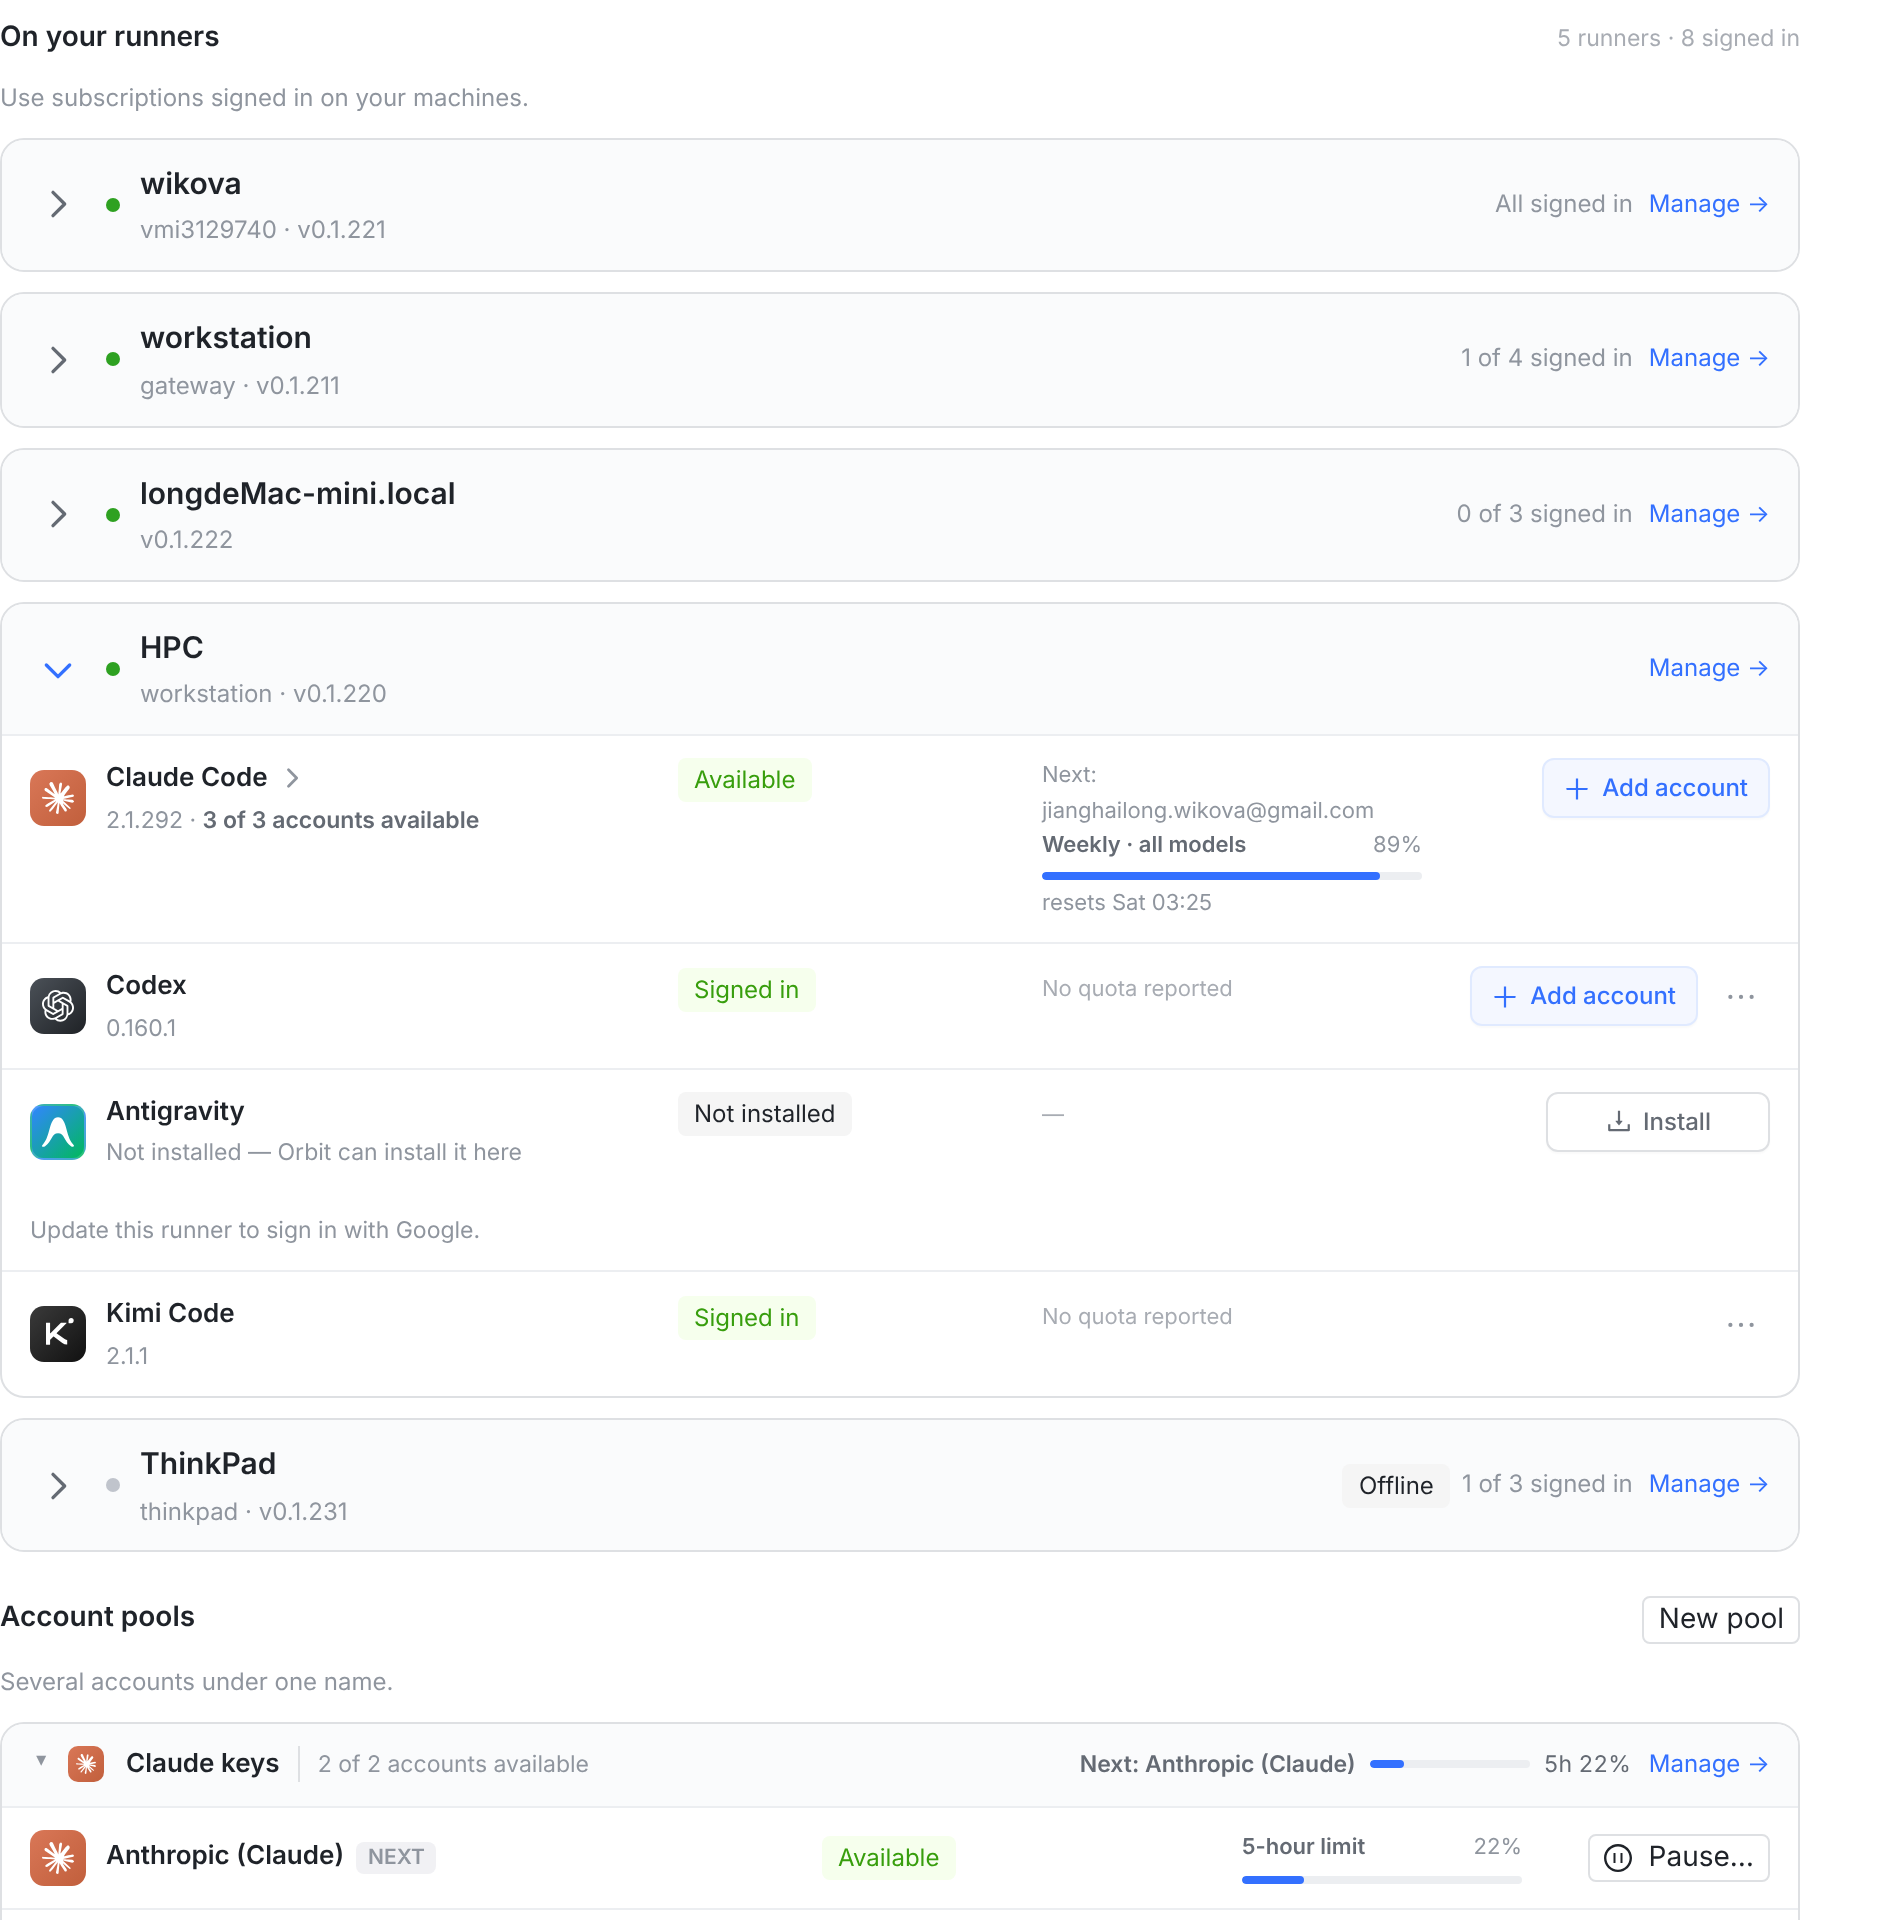
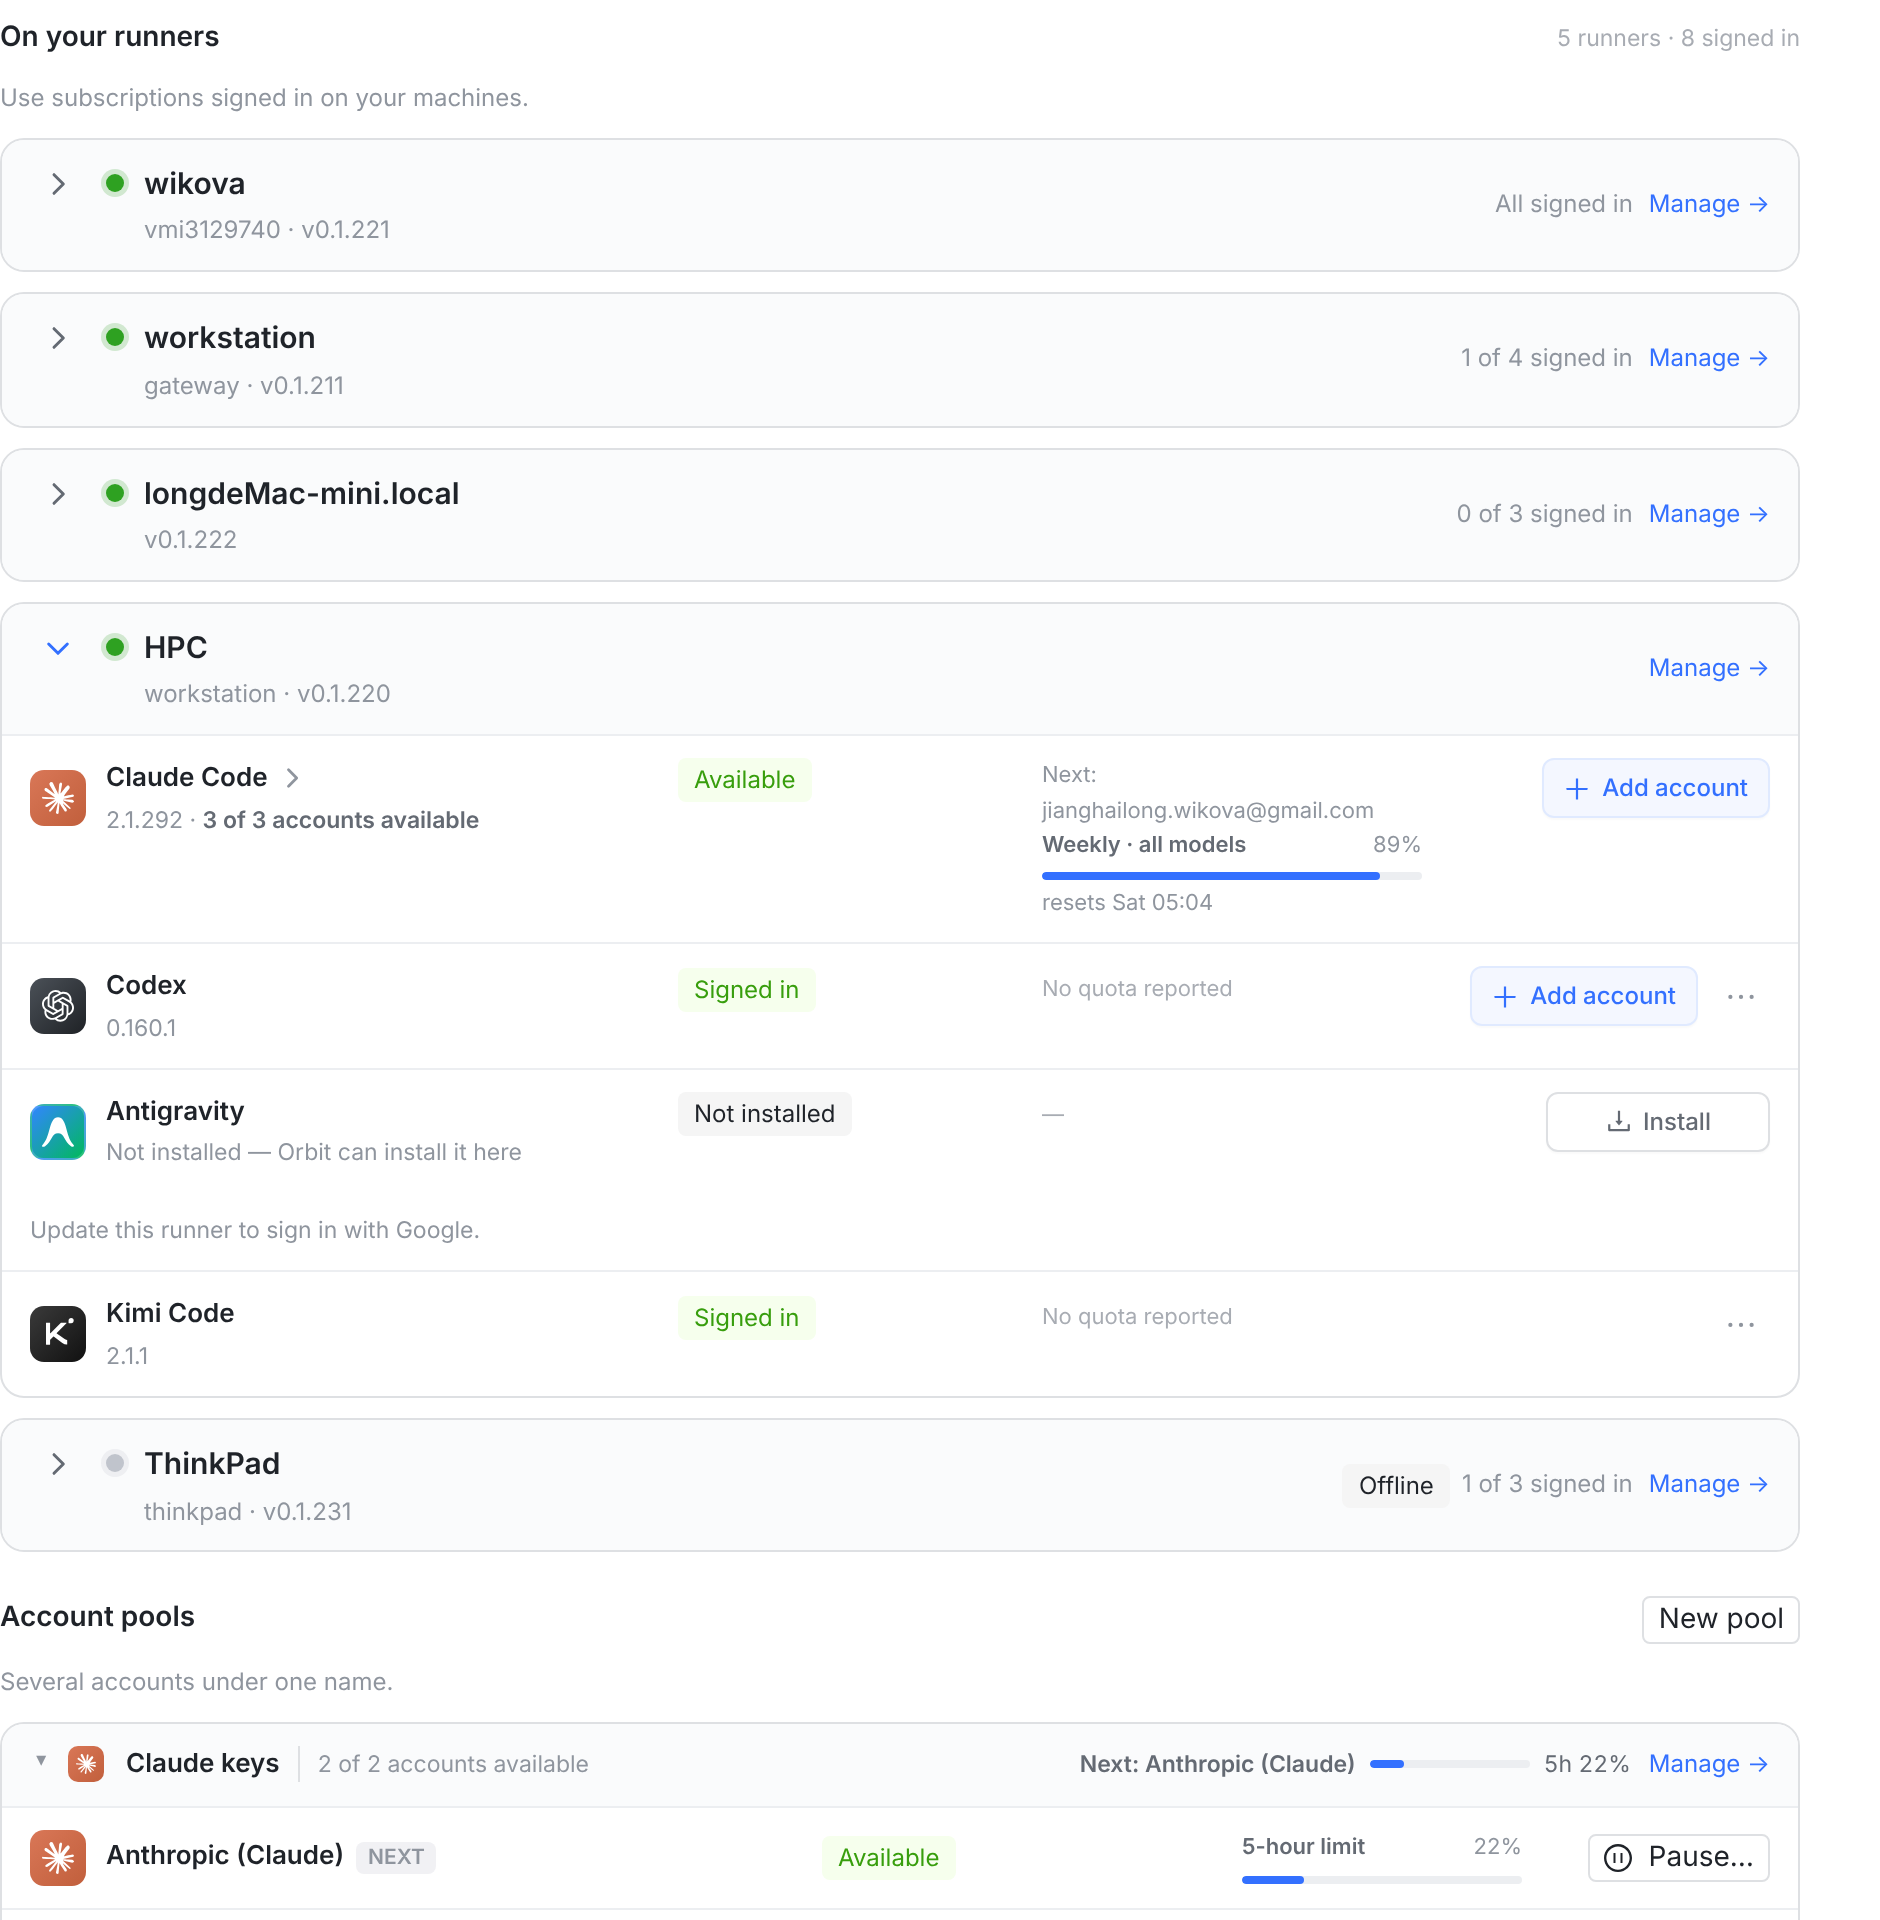
fix(web): the runner card's leading marks ride the name's line
The chevron and the dot led a two-line identity — a name over a host and
version — while being centred on the block: 197.4px, exactly the gap between
the two lines, so neither mark belonged to a line of type. They start at the
block's first line now (186.5 / 186.2 / 186.7), the way the phone layout has
always aligned them, and the chevron and dot were re-sized to sit as one
pair: 16px at stroke 2.2 and a 9px dot with a same-colour ring, green when
online and grey when not. The chevron keeps its column and its colours.

Board: docs/mocks/runner-card-fold-chevron (06-leading-marks-alignment).

diff --git a/src/web/src/index.css b/src/web/src/index.css
@@ -15057,13 +15057,19 @@ button.chat-jump-start:hover {
 }
 .re-dot {
   flex: none;
-  width: 7px;
-  height: 7px;
+  /* Onto the name's line rather than the middle of the two-line block it heads (see
+     .re-runner-card .re-toggle), and 9px with a ring of its own so it holds its own beside the
+     chevron instead of reading as a speck of dust. */
+  width: 9px;
+  height: 9px;
+  margin-top: 7px;
   border-radius: 50%;
   background: var(--dot-idle);
+  box-shadow: 0 0 0 2.5px color-mix(in srgb, var(--dot-idle) 20%, transparent);
 }
 .re-dot.on {
   background: var(--success-solid);
+  box-shadow: 0 0 0 2.5px color-mix(in srgb, var(--success-solid) 20%, transparent);
 }
 .re-runner {
   font-size: 13px;
@@ -15094,6 +15100,9 @@ button.chat-jump-start:hover {
 .re-runner-card .re-toggle {
   flex: 1;
   align-self: stretch;
+  /* The chevron and the dot lead the identity, which stacks a name over a host and version: a
+     mark centred on that block lands in the gap between the two lines, belonging to neither. */
+  align-items: flex-start;
   gap: 10px;
   min-height: 64px;
   padding: 10px 14px;
@@ -15183,9 +15192,6 @@ button.chat-jump-start:hover {
     min-height: 54px;
     padding: 10px 0 0;
     border-radius: 11px;
-  }
-  .re-runner-card .re-toggle > .re-dot {
-    margin-top: 8px;
   }
   /* Under 600px the chevron stays where it has always been: the top-right of the row, beside
      the name. Only the wide card leads with it. */

diff --git a/src/web/src/components/RunnerEngines.tsx b/src/web/src/components/RunnerEngines.tsx
@@ -1192,11 +1192,11 @@ function RunnerEngineCard({
           {/* Leads the row, in the column the engine rows below put their icon in: one place
               holds it folded or open, and no row's summary can move it. */}
           <span className={`re-chev${collapsed ? '' : ' open'}`} aria-hidden="true">
-            <svg width="20" height="20" viewBox="0 0 24 24" fill="none">
+            <svg width="16" height="16" viewBox="0 0 24 24" fill="none">
               <path
                 d="m9 5 7 7-7 7"
                 stroke="currentColor"
-                strokeWidth="2"
+                strokeWidth="2.2"
                 strokeLinecap="round"
                 strokeLinejoin="round"
               />

diff --git a/docs/mocks/runner-card-fold-chevron/README.md b/docs/mocks/runner-card-fold-chevron/README.md
@@ -34,12 +34,29 @@ Providers → “On your runners”。真机截图（本机 vite + 假 API，数
 
 （展开行量到的 427 是转 90° 之后的包围盒，不是位置差。图上下面那张账号池卡片就是“倒三角领行”的参照。）
 
-**倒三角本身没变**：还是原来那个 20px 线条箭头、原来的颜色（`--text-2`，hover/展开品牌蓝），
-只是从行尾挪到了行首。头部和它下面第一行共用一列 —— 倒三角在引擎图标的上面，状态圆点在引擎名字的上面：
+**两个标记爬上名字那一行**（2026-10-08 追加）：身份区是「名字 + 主机/版本」两行，而标记原来
+居中于整块（竖直中心 197.4px），正好落在两行之间的缝里 —— 看起来跟哪一行都不搭。现在它们跟名字
+同一根线（中心 186.5 / 186.2 / 186.7），并按尺寸一栏调过重量：
+
+![alignment](06-leading-marks-alignment.png)
+
+| | 名字行中心 | 圆点中心 | 倒三角中心 |
+|---|---|---|---|
+| 改前 | 186.5 | **197.4**（缝里） | **197.4**（缝里） |
+| 改后（C） | 186.5 | 186.2 | 186.7 |
+
+尺寸（对照 [05-leading-marks-plate](05-leading-marks-plate.png) 里那六版选的 C）：
+
+| | 改前 | 改后 |
+|---|---|---|
+| 倒三角 | 20px、描边 2 | **16px、描边 2.2**（同一列 28px，位置与图标列对齐不变） |
+| 圆点 | 7px、无光环 | **9px + 2.5px 同色 20% 光环**（在线绿、离线灰用各自颜色） |
+
+头部和它下面第一行仍共用一列 —— 倒三角在引擎图标的上面，状态圆点在引擎名字的上面：
 
 ![leading column](04-leading-column.png)
 
-三个理由：
+三个理由（倒三角为什么该领行）：
 
 1. **这个产品的行尾表示「去别处」**——`Manage →`、引擎行的 `›`。同一页另外两处折叠控件都不在行尾：
    账号池卡片的 `▸` 在整行最左（就是它），引擎行的 `›` 紧跟引擎名。
@@ -52,26 +69,32 @@ Providers → “On your runners”。真机截图（本机 vite + 假 API，数
 ![phone](03-proposal-phone.png)
 
 卡片高度、摘要位置（名字下面缩进 17px）、`Manage →` 那一行**和今天逐像素一样**
-（都是 101px 高，Manage 的纵坐标一模一样），倒三角仍在右上角 —— 字形也不动。做法是 ≤600px 时
+（都是 101px 高，Manage 的纵坐标一模一样），倒三角仍在右上角。做法是 ≤600px 时
 给它 `order: 2`，把它排回按钮末尾：一行 CSS。
+
+尺寸和「对齐名字行」这两条在手机上同样成立（手机本来就把标记对齐第一行）。
 
 ## 要改什么
 
-- `src/web/src/components/RunnerEngines.tsx`：倒三角那个 span 从按钮末尾挪到按钮开头（圆点前面）。
-  **一行移动，字形、尺寸、颜色都不动。**
-- `src/web/src/index.css`：≤600px 容器查询里 `.re-runner-card .re-chev { order: 2 }`
-  （手机不挪的关键），加一句注释。
+- `src/web/src/components/RunnerEngines.tsx`：倒三角那个 span 从按钮末尾挪到按钮开头（圆点前面），
+  并把 svg 从 `20px` / `strokeWidth 2` 改成 `16px` / `2.2`。
+- `src/web/src/index.css`：
+  - `.re-runner-card .re-toggle` 加 `align-items: flex-start`（标记对齐名字行）；
+  - `.re-dot` 7px → 9px、加 `margin-top: 7px` 和同色光环（`.re-dot.on` 用绿色）；
+  - ≤600px 容器查询里 `.re-runner-card .re-chev { order: 2 }`（手机不挪的关键），
+    并删掉那里多余的圆点 `margin-top` 规则。
 
-不改：摘要、点击区域（整行仍可点）、aria、倒三角的字形与配色、离线/警告摘要的样式。
+不改：摘要、点击区域（整行仍可点）、aria、离线/警告摘要的样式。
 
-## 落地时定的三条
+## 落地时定的四条
 
 1. 倒三角放在**最左**，不再跟着摘要跑。
 2. **手机不挪**：≤600px 仍在右上角（`order: 2`），卡片高度、摘要位置、Manage 那行都不变。
-3. 倒三角**保持原样**（20px 线条箭头，`--text-2` / hover·展开品牌蓝）。
+3. 标记**对齐名字那一行**（不再卡在名字与版本之间）。
+4. 尺寸：倒三角 16px / 描边 2.2，圆点 9px 带 2.5px 同色光环；颜色沿用原来的
+   （倒三角 `--text-2`、hover·展开品牌蓝；圆点在线绿、离线灰）。
 
-（曾经按“账号池那种小三角”改过一版并上线，理解错了 —— 已改回。以后真想换成小三角，
-那只是一处 `▸` 文本 + 两条颜色的事。）
+（中途曾经按“账号池那种小三角”改过一版并上线 —— 理解错了，已改回线条箭头。）
 
 复现：`/var/tmp/runner-chev-shots/`（`server-chev.mjs` 假 API :3481、`vite.config.mjs` :5481、
-`measure.mjs` 量位置与截图；这一版的代码存成 `pool-style.patch`）。
+`measure.mjs` 量位置与截图；`variants.mjs` 出尺寸版、`align/` 下是四版对齐图）。
